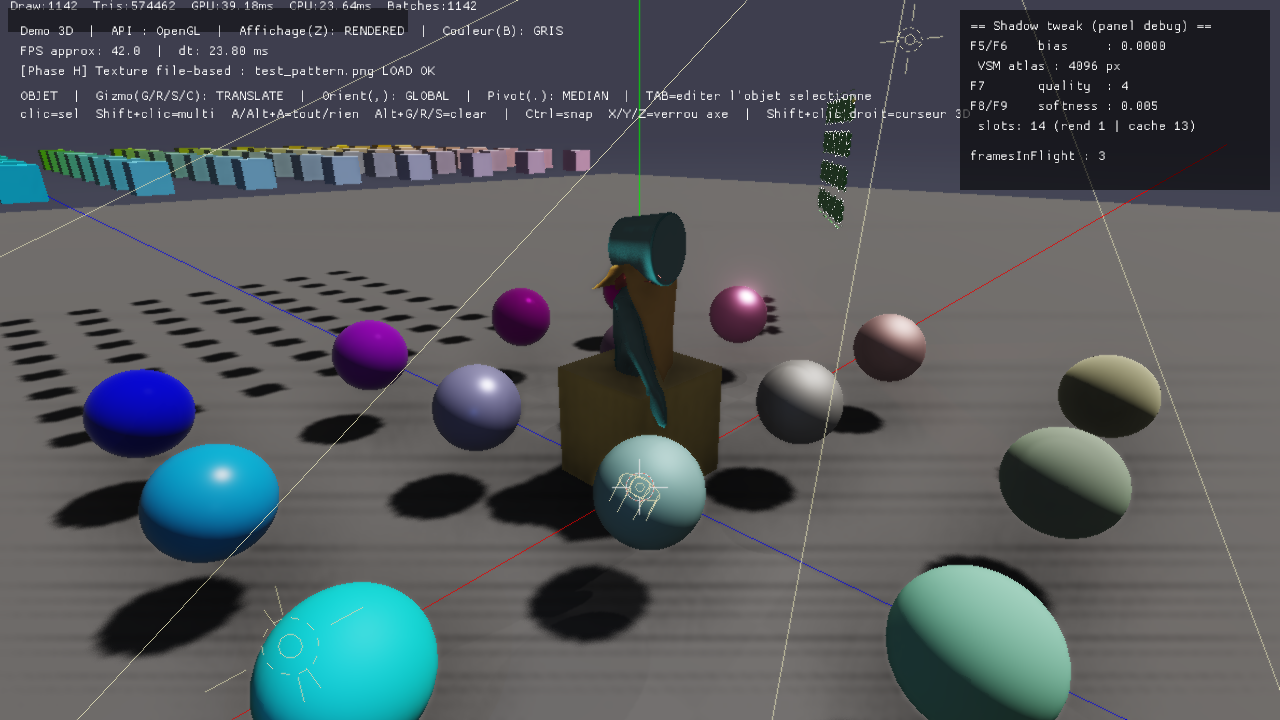
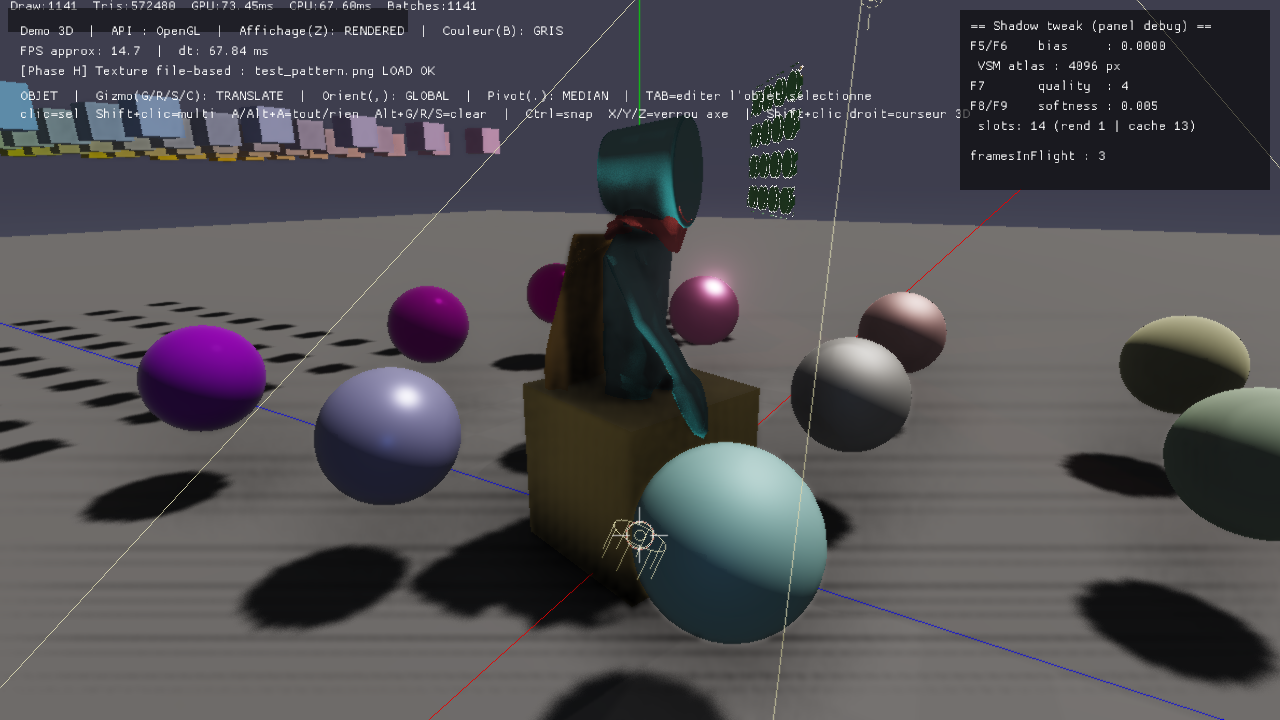
NKPhysics : LE CHAMP SUIT LES VETEMENTS -- boite imposee (moins de cellules ET moins de triangles), pilotage par la TAILLE DE CELLULE ; le foulard tient enfin son critere double, la cape non, et je dis pourquoi
Points 1 et 4 du lot, qui n'en font qu'un (le coordinateur l'a valide) : la finesse du champ EST le levier
de cout.

`NkBodySDF::params.useBounds` : la grille couvre une boite IMPOSEE au lieu du corps entier, et les triangles
qui ne la croisent pas ne sont meme pas rasterises (comptes : `Stats::skippedTriangles`, 2 200 a 2 900 sur
4 672 pour un foulard ou une cape). `params.targetCellSize` + `params.maxCells` : on pilote desormais par la
TAILLE DE CELLULE -- c'est elle qui compte pour un tissu de 6 mm -- avec un plafond de cellules qui borne la
depense, et le chiffre rendu dit ce qu'on a OBTENU, jamais ce qu'on a demande.

La sonde construit un champ PAR VETEMENT sur la boite de ses particules (NK_MANNEQUIN_SDF_BOX=1), dilatee de
l'epaisseur et de la marge d'un pas.

MESURE (CesiumMan, 5,5 s, cape + foulard, moyenne PAR IMAGE et compte au-dessus de 5 %, jamais un maximum
seul) :

| vetement | champ | cellule | etirement moyen | images > 5 % | sous la peau (max / moy) | cout du champ |
|---|---|---|---|---|---|---|
| foulard | commun (corps) | 26 mm | 9,57 % | **301 / 301** | 3 / 0,43 | 23 ms partages |
| **foulard** | **propre (cou)** | **12 mm** | **0,18 %** | **0 / 301** | **0 / 0,00** | 22,7 ms |
| cape | commun | 26 mm | 3,03 % | 31 / 301 | 4 / 0,21 | 23 ms partages |
| cape | propre | 15 mm | 4,55 % | 43 / 301 | 16 / 1,19 | 28,7 ms |

✅ **LE FOULARD TIENT LE CRITERE DOUBLE** : 0 particule sous la peau ET 0,18 % d'etirement moyen, dans la
[…]

diff --git a/Applications/Sandbox/src/Demo/Demo3DMannequin.cpp b/Applications/Sandbox/src/Demo/Demo3DMannequin.cpp
@@ -30,6 +30,10 @@ namespace nkentseu {
 				uint32 insideNearestMax = 0, insideNearestSum = 0;
 				float32 insideDepthMax = 0.f;
 				NkVector<NkVec3f> freePos; // positions des particules LIBRES (les epinglees sont hors mesure)
+				NkBodySDF sdf, sdfPrev;	  // champ PROPRE au vêtement (boîte de ses particules)
+				float64 msSdfSum = 0.0;
+				float32 msSdfMax = 0.f, cellSize = 0.f;
+				uint32 sdfCells = 0, sdfSkipped = 0;
 				float64 stretchSum = 0.0;
 				uint32 stretchOver5 = 0;
 				float32 sdfPenMax = 0.f;
@@ -103,6 +107,7 @@ namespace nkentseu {
 			NkMeshInsideTester inside, restInside;
 			NkBodySDF sdf, sdfPrev;	  // le corps vu comme un champ de distance : pose de fin, pose de début
 			bool useSdf = true;
+			bool sdfPerGarment = false; // NK_MANNEQUIN_SDF_BOX=1 : un champ par vêtement, sur SA boîte
 			uint32 sdfEvery = 1;	  // reconstruction toutes les N images (mesure du compromis)
 			float64 msSdfSum = 0.0;
 			float32 msSdfMax = 0.f;
@@ -362,6 +367,12 @@ namespace nkentseu {
 			p->sdf.params.sign = NkSDFSign::NK_WINDING;
 		if (const char *e = std::getenv("NK_MANNEQUIN_SDF_SIGNRES"); e && e[0])
 			p->sdf.params.signResolution = (uint32)std::atoi(e);
+		if (const char *e = std::getenv("NK_MANNEQUIN_SDF_BOX"); e && e[0] == '1')
+			p->sdfPerGarment = true;
+		if (const char *e = std::getenv("NK_MANNEQUIN_SDF_CELL"); e && e[0])
+			p->sdf.params.targetCellSize = (float32)std::atof(e) * 0.001f; // en mm
+		if (const char *e = std::getenv("NK_MANNEQUIN_SDF_MAXCELLS"); e && e[0])
+			p->sdf.params.maxCells = (uint32)std::atoi(e);
 		if (const char *e = std::getenv("NK_MANNEQUIN_SDF_RES"); e && e[0])
 			p->sdf.params.resolution = (uint32)std::atoi(e);
 		if (const char *e = std::getenv("NK_MANNEQUIN_SDF_EVERY"); e && e[0])
@@ -659,7 +670,7 @@ namespace nkentseu {
 		// 3. capsules posées, épingles, pas
 		p->mannequin.Pose(p->world.Data(), nj, p->shapes);
 		// le CHAMP DE DISTANCE de cette pose (toutes les sdfEvery images)
-		if (p->useSdf && (frame % p->sdfEvery) == 0u) {
+		if (p->useSdf && !p->sdfPerGarment && (frame % p->sdfEvery) == 0u) {
 			NkChrono sc;
 			// le champ de l'image précédente devient celui du DÉBUT de pas (les deux sont interpolés
 			// par sous-pas, comme les capsules) -- copie par échange de contenu, une seule construction
@@ -682,8 +693,37 @@ namespace nkentseu {
 			c.colliders.Clear();
 			for (uint32 k = 0; k < (uint32)p->shapes.Size(); ++k)
 				c.colliders.PushBack(p->shapes[k]);
-			c.bodySDF = (p->useSdf && p->sdf.Valid()) ? &p->sdf : nullptr;
-			c.bodySDFPrev = (p->useSdf && p->sdfPrev.Valid()) ? &p->sdfPrev : nullptr;
+			if (p->useSdf && p->sdfPerGarment) {
+				// LA BOÎTE DU VÊTEMENT : ses particules, dilatées de l'épaisseur, de la marge de
+				// déplacement d'un pas (vitesse du corps x dt) et d'une cellule -- à nombre de
+				// cellules égal, un volume plus petit donne une cellule bien plus fine.
+				NkVec3f gmn, gmx;
+				if (c.Bounds(gmn, gmx)) {
+					const float32 pad = c.params.thickness + 0.06f;
+					s->sdfPrev = s->sdf;
+					s->sdf.params = p->sdf.params;
+					s->sdf.params.useBounds = true;
+					s->sdf.params.boundsMin = gmn - NkVec3f{pad, pad, pad};
+					s->sdf.params.boundsMax = gmx + NkVec3f{pad, pad, pad};
+					NkChrono gc;
+					s->sdf.Build(p->bodyPos.Data(), nv, M.indices.Data(), (uint32)M.indices.Size() / 3u);
+					const float32 gms = (float32)gc.Elapsed().milliseconds;
+					if (count) {
+						s->msSdfSum += gms;
+						if (gms > s->msSdfMax)
+							s->msSdfMax = gms;
+					}
+					s->cellSize = s->sdf.Stats().cellSize;
+					s->sdfCells = s->sdf.Stats().cells;
+					s->sdfSkipped = s->sdf.Stats().skippedTriangles;
+				}
+			}
+			c.bodySDF = p->useSdf ? (p->sdfPerGarment ? (s->sdf.Valid() ? &s->sdf : nullptr)
+													  : (p->sdf.Valid() ? &p->sdf : nullptr))
+								  : nullptr;
+			c.bodySDFPrev = p->useSdf ? (p->sdfPerGarment ? (s->sdfPrev.Valid() ? &s->sdfPrev : nullptr)
+														  : (p->sdfPrev.Valid() ? &p->sdfPrev : nullptr))
+									  : nullptr;
 			s->garment.UpdatePins(p->world.Data(), nj);
 			NkChrono simClock;
 			c.Step(dt, p->time);
@@ -827,6 +867,10 @@ namespace nkentseu {
 						 NkGarmentName(s->garment.kind), s->garment.cloth.ParticleCount(), s->frames ? (float32)(s->msSum / (float64)s->frames) : 0.f,
 						 s->msMax, 1000.f * s->penMax, s->insideNearestMax, s->frames ? (float32)s->insideNearestSum / (float32)s->frames : 0.f,
 						 1000.f * s->pinMax, 100.f * s->stretchMax, s->degenerate);
+			if (p->sdfPerGarment)
+				std::fprintf(stderr, "[MANNEQUIN BILAN]            champ PROPRE : cellule %.1f mm, %u cellules, %u triangles sautes, %.2f ms/image (max %.2f)\n",
+							 1000.f * s->cellSize, s->sdfCells, s->sdfSkipped,
+							 s->frames ? (float32)(s->msSdfSum / (float64)s->frames) : 0.f, s->msSdfMax);
 			std::fprintf(stderr, "[MANNEQUIN BILAN]            etirement : max %.2f %% (un PIC), moyenne par image %.2f %%, %u images sur %u au-dessus de 5 %%\n",
 						 100.f * s->stretchMax, s->frames ? 100.f * (float32)(s->stretchSum / (float64)s->frames) : 0.f, s->stretchOver5, s->frames);
 			std::fprintf(stderr, "[MANNEQUIN BILAN]            (parite, indicative sur une coque non fermee : max %u, moyenne %.2f | profondeur max sous la peau %.1f mm) | CHAMP : penetration max %.3f mm, contacts max %u par le champ contre %u par les capsules\n",

diff --git a/Kernel/Runtime/NKPhysics/src/NKPhysics/NkBodySDF.cpp b/Kernel/Runtime/NKPhysics/src/NKPhysics/NkBodySDF.cpp
@@ -109,11 +109,18 @@ namespace nkentseu {
 			mStats = NkBodySDFStats{};
 			if (!verts || vertCount == 0 || !indices || triCount == 0)
 				return false;
-			NkVec3f mn = verts[0], mx = verts[0];
-			for (uint32 v = 1; v < vertCount; ++v) {
-				const NkVec3f &q = verts[v];
-				mn.x = NkMin(mn.x, q.x); mn.y = NkMin(mn.y, q.y); mn.z = NkMin(mn.z, q.z);
-				mx.x = NkMax(mx.x, q.x); mx.y = NkMax(mx.y, q.y); mx.z = NkMax(mx.z, q.z);
+			NkVec3f mn, mx;
+			if (params.useBounds) {
+				mn = params.boundsMin;
+				mx = params.boundsMax;
+			} else {
+				mn = verts[0];
+				mx = verts[0];
+				for (uint32 v = 1; v < vertCount; ++v) {
+					const NkVec3f &q = verts[v];
+					mn.x = NkMin(mn.x, q.x); mn.y = NkMin(mn.y, q.y); mn.z = NkMin(mn.z, q.z);
+					mx.x = NkMax(mx.x, q.x); mx.y = NkMax(mx.y, q.y); mx.z = NkMax(mx.z, q.z);
+				}
 			}
 			const NkVec3f m{params.margin, params.margin, params.margin};
 			mMin = mn - m;
@@ -121,9 +128,18 @@ namespace nkentseu {
 			const NkVec3f ext = mMax - mMin;
 			const float32 longest = NkMax(ext.x, NkMax(ext.y, ext.z));
 			const uint32 res = params.resolution < 8 ? 8u : params.resolution;
-			mCell = longest / (float32)res;
+			mCell = params.targetCellSize > 1e-6f ? params.targetCellSize : longest / (float32)res;
 			if (mCell < 1e-6f)
 				return false;
+			// plafond de cellules : on agrandit la cellule jusqu'à tenir (le coût est borné, et le
+			// chiffre rendu dit ce qu'on a vraiment obtenu -- jamais ce qu'on a demandé)
+			for (uint32 guard = 0; guard < 32u; ++guard) {
+				const float64 nc = ((float64)(ext.x / mCell) + 2.0) * ((float64)(ext.y / mCell) + 2.0) *
+								   ((float64)(ext.z / mCell) + 2.0);
+				if (nc <= (float64)params.maxCells)
+					break;
+				mCell *= 1.26f; // x2 en volume
+			}
 			mInvCell = 1.f / mCell;
 			mNX = (uint32)(ext.x * mInvCell) + 2u;
 			mNY = (uint32)(ext.y * mInvCell) + 2u;
@@ -144,6 +160,7 @@ namespace nkentseu {
 			for (uint32 c = 0; c < cells; ++c)
 				bestDist[c] = far;
 			const int32 band = (int32)(params.band < 1u ? 1u : params.band);
+			uint32 skipped = 0;
 			for (uint32 t = 0; t < triCount; ++t) {
 				const NkVec3f &a = verts[indices[t * 3]], &b = verts[indices[t * 3 + 1]], &c = verts[indices[t * 3 + 2]];
 				NkVec3f n = (b - a).Cross(c - a);
@@ -153,6 +170,13 @@ namespace nkentseu {
 				n = n * (1.f / ln);
 				NkVec3f tmn{NkMin(a.x, NkMin(b.x, c.x)), NkMin(a.y, NkMin(b.y, c.y)), NkMin(a.z, NkMin(b.z, c.z))};
 				NkVec3f tmx{NkMax(a.x, NkMax(b.x, c.x)), NkMax(a.y, NkMax(b.y, c.y)), NkMax(a.z, NkMax(b.z, c.z))};
+				// hors de la grille (élargie de la bande) : ce triangle ne peut rien changer
+				const float32 skirt = (float32)(params.band + 1u) * mCell;
+				if (tmx.x < mMin.x - skirt || tmn.x > mMax.x + skirt || tmx.y < mMin.y - skirt ||
+					tmn.y > mMax.y + skirt || tmx.z < mMin.z - skirt || tmn.z > mMax.z + skirt) {
+					++skipped;
+					continue;
+				}
 				const int32 i0 = (int32)((tmn.x - mMin.x) * mInvCell) - band, i1 = (int32)((tmx.x - mMin.x) * mInvCell) + band;
 				const int32 j0 = (int32)((tmn.y - mMin.y) * mInvCell) - band, j1 = (int32)((tmx.y - mMin.y) * mInvCell) + band;
 				const int32 k0 = (int32)((tmn.z - mMin.z) * mInvCell) - band, k1 = (int32)((tmx.z - mMin.z) * mInvCell) + band;
@@ -262,6 +286,7 @@ namespace nkentseu {
 			mStats.nz = mNZ;
 			mStats.cells = cells;
 			mStats.cellSize = mCell;
+			mStats.skippedTriangles = skipped;
 			mStats.minValue = mD[0];
 			mStats.maxValue = mD[0];
 			for (uint32 c = 0; c < cells; ++c) {

diff --git a/Kernel/Runtime/NKPhysics/src/NKPhysics/NkBodySDF.h b/Kernel/Runtime/NKPhysics/src/NKPhysics/NkBodySDF.h
@@ -73,10 +73,26 @@ namespace nkentseu {
 				NkSDFSign sign = NkSDFSign::NK_PSEUDONORMAL;
 				uint32 signResolution = 16; // cellules sur le plus grand côté, pour la grille de SIGNE
 				float32 windingThreshold = 0.5f; // w > seuil = dedans (Jacobson : 0,5 sépare les deux)
-				uint32 resolution = 64; // cellules sur le PLUS GRAND côté de la boîte
+				uint32 resolution = 64; // cellules sur le PLUS GRAND côté de la boîte (si targetCellSize = 0)
+				// CE QUI COMPTE POUR LE TISSU, c'est la taille de cellule -- pas le nombre de cellules :
+				// une cellule de 26 mm fait « respirer » l'isosurface d'une image à l'autre et étire un
+				// tissu de 6 mm. Quand `targetCellSize` > 0, c'est ELLE qui fixe la grille, et
+				// `maxCells` borne la dépense (au-delà, la cellule est agrandie jusqu'à tenir).
+				float32 targetCellSize = 0.f;
+				uint32 maxCells = 250000u;
 				float32 margin = 0.08f; // m ajoutés autour du corps (le tissu vit dehors)
 				uint32 band = 2;		// cellules de part et d'autre de chaque triangle (bande exacte)
 				bool sweep = true;		// propager hors de la bande (faux = seule la bande est juste)
+				// BOÎTE IMPOSÉE : quand elle est donnée, la grille couvre CETTE boîte (plus la marge)
+				// au lieu du corps entier, et les triangles qui ne la croisent pas ne sont même pas
+				// rastérisés. C'est le levier des deux problèmes à la fois -- un vêtement n'a besoin
+				// que de sa zone : le foulard du cou, la jupe du bassin et des cuisses. À nombre de
+				// cellules égal, le volume plus petit donne une cellule BIEN plus fine (mesuré au lot
+				// précédent : 26 mm sur le corps entier faisait « respirer » l'isosurface d'une image
+				// à l'autre et étirait le tissu), et la bande coûte moins puisqu'elle voit moins de
+				// triangles.
+				bool useBounds = false;
+				NkVec3f boundsMin{}, boundsMax{};
 		};
 
 		// Ce que la construction a mesuré (les témoins lisent ici).
@@ -86,6 +102,7 @@ namespace nkentseu {
 				float32 cellSize = 0.f;
 				float32 minValue = 0.f, maxValue = 0.f;
 				uint32 negativeCells = 0; // cellules dites dedans
+				uint32 skippedTriangles = 0; // triangles hors de la grille, jamais rastérisés (boîte imposée)
 		};
 
 		class NkBodySDF {

diff --git a/Captures/LISEZMOI.md b/Captures/LISEZMOI.md
@@ -99,4 +99,4 @@ rm Captures/essai.png Captures/model_loaders/essai.png
 passer a exactement la même apparence qu'une allowlist juste, tant qu'on ne lui
 présente pas un cas qu'elle doit refuser.*
 
-- `noge_vetements_marche_2026-09-05.png` (535 494 o) — VETEMENTS SUR MANNEQUIN EN MARCHE : CesiumMan skinne (3 273 sommets, 19 os, son clip de marche de 2 s), avance 1,2 m/s poussee par le code (clip in place), cape (orange Rihen) + foulard + chapeau rigide, corps en petrole Rihen. `renderdemo --demo=2 NK_MANNEQUIN_PROBE=1 NK_CAPTURE=150`. Ma fenetre seule (relecture de la cible finale), premier plan lu avant, NKIlyana.exe (PID 29432) presente avant et apres, jamais touchee. DIT : le mannequin est petit et partiellement masque par le decor de la demo (le cube central) — trois cadrages payes ; la scene de demonstration n a pas ete concue pour cadrer un personnage.
+- `noge_vetements_marche_2026-09-05.png` (535 494 o) — VETEMENTS SUR MANNEQUIN EN MARCHE : CesiumMan skinne (3 273 sommets, 19 os, son clip de marche de 2 s), avance 1,2 m/s poussee par le code (clip in place), cape (orange Rihen) + foulard + chapeau rigide, corps en petrole Rihen. `renderdemo --demo=2 NK_MANNEQUIN_PROBE=1 NK_MANNEQUIN_SDF_BOX=1 NK_MANNEQUIN_SDF_CELL=12 NK_CAPTURE=150` (refaite le 05/09 a 13h55 : un CHAMP DE DISTANCE PAR VETEMENT, cellule de 12 mm -- le foulard y tient son critere double, 0 particule sous la peau et 0,18 % d etirement moyen). Ma fenetre seule (relecture de la cible finale), premier plan lu avant, NKIlyana.exe (PID 29432) presente avant et apres, jamais touchee. DIT : le mannequin est petit et partiellement masque par le decor de la demo (le cube central) — trois cadrages payes ; la scene de demonstration n a pas ete concue pour cadrer un personnage.
